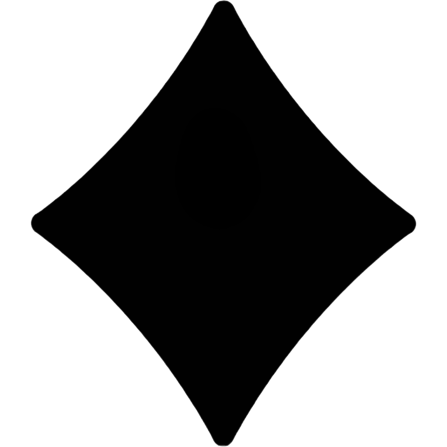
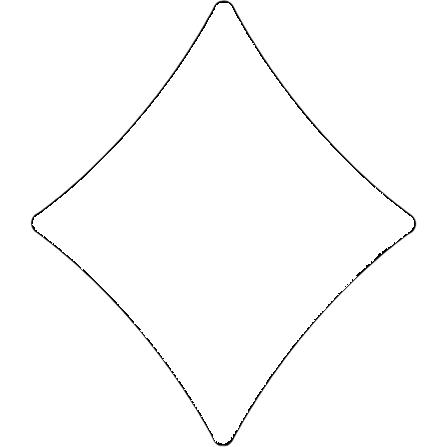
Version2 cambios

diff --git a/Windows/Simulador.Designer.cs b/Windows/Simulador.Designer.cs
@@ -41,6 +41,7 @@
             this.button_estadoActual = new System.Windows.Forms.Button();
             this.Label_Clue = new System.Windows.Forms.Label();
             this.button_volver = new System.Windows.Forms.Button();
+            this.button_deshacer = new System.Windows.Forms.Button();
             ((System.ComponentModel.ISupportInitialize)(this.pictureBox_espacioAereo)).BeginInit();
             this.SuspendLayout();
             // 
@@ -51,10 +52,10 @@
             | System.Windows.Forms.AnchorStyles.Right)));
             this.pictureBox_espacioAereo.BackColor = System.Drawing.Color.MidnightBlue;
             this.pictureBox_espacioAereo.BorderStyle = System.Windows.Forms.BorderStyle.FixedSingle;
-            this.pictureBox_espacioAereo.Location = new System.Drawing.Point(20, 60);
-            this.pictureBox_espacioAereo.Margin = new System.Windows.Forms.Padding(2);
+            this.pictureBox_espacioAereo.Location = new System.Drawing.Point(27, 74);
+            this.pictureBox_espacioAereo.Margin = new System.Windows.Forms.Padding(3, 2, 3, 2);
             this.pictureBox_espacioAereo.Name = "pictureBox_espacioAereo";
-            this.pictureBox_espacioAereo.Size = new System.Drawing.Size(650, 566);
+            this.pictureBox_espacioAereo.Size = new System.Drawing.Size(866, 696);
             this.pictureBox_espacioAereo.SizeMode = System.Windows.Forms.PictureBoxSizeMode.Zoom;
             this.pictureBox_espacioAereo.TabIndex = 0;
             this.pictureBox_espacioAereo.TabStop = false;
@@ -63,10 +64,9 @@
             // 
             this.Label_Info.AutoSize = true;
             this.Label_Info.BorderStyle = System.Windows.Forms.BorderStyle.FixedSingle;
-            this.Label_Info.Location = new System.Drawing.Point(25, 56);
-            this.Label_Info.Margin = new System.Windows.Forms.Padding(2, 0, 2, 0);
+            this.Label_Info.Location = new System.Drawing.Point(33, 69);
             this.Label_Info.Name = "Label_Info";
-            this.Label_Info.Size = new System.Drawing.Size(37, 15);
+            this.Label_Info.Size = new System.Drawing.Size(46, 18);
             this.Label_Info.TabIndex = 1;
             this.Label_Info.Text = "label1";
             this.Label_Info.TextAlign = System.Drawing.ContentAlignment.MiddleLeft;
@@ -77,18 +77,20 @@
             this.Label_Conflicto.BackColor = System.Drawing.Color.Transparent;
             this.Label_Conflicto.Font = new System.Drawing.Font("Segoe UI", 9.75F, System.Drawing.FontStyle.Bold, System.Drawing.GraphicsUnit.Point, ((byte)(0)));
             this.Label_Conflicto.ForeColor = System.Drawing.Color.Purple;
-            this.Label_Conflicto.Location = new System.Drawing.Point(22, 21);
+            this.Label_Conflicto.Location = new System.Drawing.Point(29, 26);
+            this.Label_Conflicto.Margin = new System.Windows.Forms.Padding(4, 0, 4, 0);
             this.Label_Conflicto.Name = "Label_Conflicto";
-            this.Label_Conflicto.Size = new System.Drawing.Size(282, 17);
+            this.Label_Conflicto.Size = new System.Drawing.Size(367, 23);
             this.Label_Conflicto.TabIndex = 3;
             this.Label_Conflicto.Text = "Pulsa \"Mover\" o \"Automático\" para empezar";
             // 
             // button_mover
             // 
             this.button_mover.Anchor = ((System.Windows.Forms.AnchorStyles)((System.Windows.Forms.AnchorStyles.Top | System.Windows.Forms.AnchorStyles.Right)));
-            this.button_mover.Location = new System.Drawing.Point(690, 60);
+            this.button_mover.Location = new System.Drawing.Point(920, 74);
+            this.button_mover.Margin = new System.Windows.Forms.Padding(4, 4, 4, 4);
             this.button_mover.Name = "button_mover";
-            this.button_mover.Size = new System.Drawing.Size(200, 40);
+            this.button_mover.Size = new System.Drawing.Size(267, 49);
             this.button_mover.TabIndex = 4;
             this.button_mover.Text = "Mover";
             this.button_mover.UseVisualStyleBackColor = true;
@@ -97,10 +99,10 @@
             // button_auto
             // 
             this.button_auto.Anchor = ((System.Windows.Forms.AnchorStyles)((System.Windows.Forms.AnchorStyles.Top | System.Windows.Forms.AnchorStyles.Right)));
-            this.button_auto.Location = new System.Drawing.Point(690, 110);
-            this.button_auto.Margin = new System.Windows.Forms.Padding(2);
+            this.button_auto.Location = new System.Drawing.Point(920, 135);
+            this.button_auto.Margin = new System.Windows.Forms.Padding(3, 2, 3, 2);
             this.button_auto.Name = "button_auto";
-            this.button_auto.Size = new System.Drawing.Size(200, 40);
+            this.button_auto.Size = new System.Drawing.Size(267, 49);
             this.button_auto.TabIndex = 5;
             this.button_auto.Text = "Automatico";
             this.button_auto.UseVisualStyleBackColor = true;
@@ -113,9 +115,10 @@
             // button_conflicto
             // 
             this.button_conflicto.Anchor = ((System.Windows.Forms.AnchorStyles)((System.Windows.Forms.AnchorStyles.Top | System.Windows.Forms.AnchorStyles.Right)));
-            this.button_conflicto.Location = new System.Drawing.Point(690, 230);
+            this.button_conflicto.Location = new System.Drawing.Point(920, 348);
+            this.button_conflicto.Margin = new System.Windows.Forms.Padding(4, 4, 4, 4);
             this.button_conflicto.Name = "button_conflicto";
-            this.button_conflicto.Size = new System.Drawing.Size(200, 40);
+            this.button_conflicto.Size = new System.Drawing.Size(267, 49);
             this.button_conflicto.TabIndex = 6;
             this.button_conflicto.Text = "¿Habrá conflicto?";
             this.button_conflicto.UseVisualStyleBackColor = true;
@@ -124,10 +127,10 @@
             // button_datos
             // 
             this.button_datos.Anchor = ((System.Windows.Forms.AnchorStyles)((System.Windows.Forms.AnchorStyles.Top | System.Windows.Forms.AnchorStyles.Right)));
-            this.button_datos.Location = new System.Drawing.Point(690, 280);
-            this.button_datos.Margin = new System.Windows.Forms.Padding(2);
+            this.button_datos.Location = new System.Drawing.Point(920, 410);
+            this.button_datos.Margin = new System.Windows.Forms.Padding(3, 2, 3, 2);
             this.button_datos.Name = "button_datos";
-            this.button_datos.Size = new System.Drawing.Size(200, 40);
+            this.button_datos.Size = new System.Drawing.Size(267, 49);
             this.button_datos.TabIndex = 7;
             this.button_datos.Text = "Datos de los vuelos";
             this.button_datos.UseVisualStyleBackColor = true;
@@ -137,10 +140,10 @@
             // 
             this.button_reset.Anchor = ((System.Windows.Forms.AnchorStyles)((System.Windows.Forms.AnchorStyles.Top | System.Windows.Forms.AnchorStyles.Right)));
             this.button_reset.BackColor = System.Drawing.Color.RosyBrown;
-            this.button_reset.Location = new System.Drawing.Point(690, 160);
-            this.button_reset.Margin = new System.Windows.Forms.Padding(2);
+            this.button_reset.Location = new System.Drawing.Point(920, 262);
+            this.button_reset.Margin = new System.Windows.Forms.Padding(3, 2, 3, 2);
             this.button_reset.Name = "button_reset";
-            this.button_reset.Size = new System.Drawing.Size(200, 40);
+            this.button_reset.Size = new System.Drawing.Size(267, 49);
             this.button_reset.TabIndex = 8;
             this.button_reset.Text = "Reset";
             this.button_reset.UseVisualStyleBackColor = false;
@@ -149,10 +152,10 @@
             // button_estadoActual
             // 
             this.button_estadoActual.Anchor = ((System.Windows.Forms.AnchorStyles)((System.Windows.Forms.AnchorStyles.Top | System.Windows.Forms.AnchorStyles.Right)));
-            this.button_estadoActual.Location = new System.Drawing.Point(690, 330);
-            this.button_estadoActual.Margin = new System.Windows.Forms.Padding(2);
+            this.button_estadoActual.Location = new System.Drawing.Point(920, 471);
+            this.button_estadoActual.Margin = new System.Windows.Forms.Padding(3, 2, 3, 2);
             this.button_estadoActual.Name = "button_estadoActual";
-            this.button_estadoActual.Size = new System.Drawing.Size(200, 40);
+            this.button_estadoActual.Size = new System.Drawing.Size(267, 49);
             this.button_estadoActual.TabIndex = 9;
             this.button_estadoActual.Text = "Guardar estado actual";
             this.button_estadoActual.UseVisualStyleBackColor = true;
@@ -165,9 +168,10 @@
             this.Label_Clue.BackColor = System.Drawing.Color.Transparent;
             this.Label_Clue.Font = new System.Drawing.Font("Segoe UI", 9F, System.Drawing.FontStyle.Regular, System.Drawing.GraphicsUnit.Point, ((byte)(0)));
             this.Label_Clue.ForeColor = System.Drawing.Color.Indigo;
-            this.Label_Clue.Location = new System.Drawing.Point(687, 507);
+            this.Label_Clue.Location = new System.Drawing.Point(916, 624);
+            this.Label_Clue.Margin = new System.Windows.Forms.Padding(4, 0, 4, 0);
             this.Label_Clue.Name = "Label_Clue";
-            this.Label_Clue.Size = new System.Drawing.Size(206, 60);
+            this.Label_Clue.Size = new System.Drawing.Size(261, 80);
             this.Label_Clue.TabIndex = 10;
             this.Label_Clue.Text = "Para cambiar las velocidades \r\nde los aviones, clica sobre cada avión \r\npara abri" +
     "r los datos del vuelo \r\ny editar la velocidad.";
@@ -176,20 +180,34 @@
             // 
             this.button_volver.Anchor = ((System.Windows.Forms.AnchorStyles)((System.Windows.Forms.AnchorStyles.Bottom | System.Windows.Forms.AnchorStyles.Right)));
             this.button_volver.BackColor = System.Drawing.Color.IndianRed;
-            this.button_volver.Location = new System.Drawing.Point(725, 583);
+            this.button_volver.Location = new System.Drawing.Point(967, 718);
+            this.button_volver.Margin = new System.Windows.Forms.Padding(4, 4, 4, 4);
             this.button_volver.Name = "button_volver";
-            this.button_volver.Size = new System.Drawing.Size(112, 43);
+            this.button_volver.Size = new System.Drawing.Size(149, 53);
             this.button_volver.TabIndex = 11;
             this.button_volver.Text = "Volver al incio";
             this.button_volver.UseVisualStyleBackColor = false;
             this.button_volver.Click += new System.EventHandler(this.button_volver_Click);
             // 
+            // button_deshacer
+            // 
+            this.button_deshacer.Anchor = ((System.Windows.Forms.AnchorStyles)((System.Windows.Forms.AnchorStyles.Top | System.Windows.Forms.AnchorStyles.Right)));
+            this.button_deshacer.Location = new System.Drawing.Point(920, 198);
+            this.button_deshacer.Margin = new System.Windows.Forms.Padding(3, 2, 3, 2);
+            this.button_deshacer.Name = "button_deshacer";
+            this.button_deshacer.Size = new System.Drawing.Size(267, 49);
+            this.button_deshacer.TabIndex = 12;
+            this.button_deshacer.Text = "Deshacer";
+            this.button_deshacer.UseVisualStyleBackColor = true;
+            this.button_deshacer.Click += new System.EventHandler(this.button_deshacer_Click);
+            // 
             // Simulador
             // 
-            this.AutoScaleDimensions = new System.Drawing.SizeF(6F, 13F);
+            this.AutoScaleDimensions = new System.Drawing.SizeF(8F, 16F);
             this.AutoScaleMode = System.Windows.Forms.AutoScaleMode.Font;
             this.BackColor = System.Drawing.Color.LightSteelBlue;
-            this.ClientSize = new System.Drawing.Size(914, 671);
+            this.ClientSize = new System.Drawing.Size(1219, 826);
+            this.Controls.Add(this.button_deshacer);
             this.Controls.Add(this.button_volver);
             this.Controls.Add(this.Label_Clue);
             this.Controls.Add(this.button_estadoActual);
@@ -202,7 +220,7 @@
             this.Controls.Add(this.Label_Info);
             this.Controls.Add(this.pictureBox_espacioAereo);
             this.FormBorderStyle = System.Windows.Forms.FormBorderStyle.FixedSingle;
-            this.Margin = new System.Windows.Forms.Padding(2);
+            this.Margin = new System.Windows.Forms.Padding(3, 2, 3, 2);
             this.Name = "Simulador";
             this.StartPosition = System.Windows.Forms.FormStartPosition.CenterScreen;
             this.Paint += new System.Windows.Forms.PaintEventHandler(this.Simulador_Paint);
@@ -227,5 +245,6 @@
         private System.Windows.Forms.Button button_estadoActual;
         private System.Windows.Forms.Label Label_Clue;
         private System.Windows.Forms.Button button_volver;
+        private System.Windows.Forms.Button button_deshacer;
     }
 }

diff --git a/Windows/Simulador.cs b/Windows/Simulador.cs
@@ -22,6 +22,7 @@ namespace Windows
 
         // Llista de PictureBox per representar tants avions com tinguem
         private List<PictureBox> llistaPictures = new List<PictureBox>();
+        private Stack<FlightPlanList> stackVuelos = new Stack<FlightPlanList>();
         private const int TAM_AVION = 25;
 
         private double escala = 1; //pixeles por cada unidad de las coordenadas
@@ -29,13 +30,14 @@ namespace Windows
         private double maxY = 1;
 
         //CONSTRUCTOR
-        public Simulador(FlightPlanList vuelos, double distancia, double ciclo)
+        public Simulador(FlightPlanList vuelos, Stack<FlightPlanList> stack, double distancia, double ciclo)
         {
             InitializeComponent();
 
             this.llistaVuelos = vuelos;
             this.distanciaSeguridad = distancia;
             this.tiempoCiclo = ciclo;
+            this.stackVuelos = stack;
 
 
             this.llistaVuelos.RestartAll();
@@ -541,6 +543,88 @@ namespace Windows
         private void button_volver_Click(object sender, EventArgs e)
         {
             Close();
+        }
+
+        private void button_deshacer_Click(object sender, EventArgs e)
+        {
+            stackVuelos.Pop();
+
+            for (int i = 0; i < llistaVuelos.GetCount(); i++)
+            {
+                //movemos los dibujos a sus nuevas posiciones
+                ColocarAvion(llistaPictures[i], llistaVuelos.GetFlightPlan(i));
+            }
+
+            bool hayConflictoGeneral = false;
+
+            string vuelosEnConflicto = "";
+            //se guarda la distancia mínima global entre todos los vuelos
+            double minDistanciaGlobal = double.MaxValue;
+
+            for (int i = 0; i < llistaVuelos.GetCount(); i++)
+            {
+                for (int j = i + 1; j < llistaVuelos.GetCount(); j++)
+                {
+                    FlightPlan p1 = llistaVuelos.GetFlightPlan(i);
+                    FlightPlan p2 = llistaVuelos.GetFlightPlan(j);
+
+                    double dist = p1.Distance(p2);
+                    if (dist < minDistanciaGlobal)
+                        minDistanciaGlobal = dist;
+
+                    if (p1.ConflictoDuranteCiclo(p2, distanciaSeguridad, tiempoCiclo))
+                    {
+                        hayConflictoGeneral = true;
+                        vuelosEnConflicto = vuelosEnConflicto + p1.GetId() + " y " + p2.GetId() + "\n";
+                        //si decidimos darle que no a solucionar conflicto y simulamos,
+                        //en el momento del cruce entre los vuelos que entrarán en conflicto saltará la alarma
+                    }
+                }
+            }
+
+            if (hayConflictoGeneral)
+            {
+                Label_Conflicto.Text = "¡CONFLICTO! Distancia mín:" + minDistanciaGlobal.ToString("F2");
+                Label_Conflicto.ForeColor = Color.Red;
+                AvisarConflicto(vuelosEnConflicto
+                    );
+            }
+
+            else
+            {
+                if (llistaVuelos.GetCount() > 1)
+                    Label_Conflicto.Text = "Sin conflicto. Distancia mín:" + minDistanciaGlobal.ToString("F2");
+                else
+                    Label_Conflicto.Text = "Simulación activa (1 solo vuelo).";
+
+                Label_Conflicto.ForeColor = Color.Green;
+                avisoMostrado = false;
+            }
+
+            //comprobamos si todos los vuelos han llegado a su destino y desactivamos los botones si es así
+            bool todosHanLlegado = true;
+            for (int i = 0; i < llistaVuelos.GetCount() && todosHanLlegado; i++)
+            {
+                //si algún avión no ha llegado, ponemos false
+                if (!llistaVuelos.GetFlightPlan(i).HasArrived())
+                {
+                    todosHanLlegado = false;
+                }
+            }
+
+            if (todosHanLlegado && llistaVuelos.GetCount() > 0)
+            {
+                button_auto.Enabled = false;
+                button_mover.Enabled = false;
+                reloj.Stop();
+                if (!mensajeLlegadaMostrado)
+                {
+                    mensajeLlegadaMostrado = true;
+                    MessageBox.Show("¡Todos los vuelos han llegado a su destino! ✈ ");
+                }
+            }
+
+            pictureBox_espacioAereo.Invalidate();
         }
     }
 }

diff --git a/Windows/Principal.cs b/Windows/Principal.cs
@@ -16,6 +16,7 @@ namespace Windows
     {
         private Estilo estilo = new Estilo();
         private FlightPlanList listaVuelos = new FlightPlanList();
+        private Stack<FlightPlanList> stackVuelos = new Stack<FlightPlanList>();
 
         private double distanciaSeguridad = 0;
         private double tiempoCiclo = 0;
@@ -80,7 +81,7 @@ namespace Windows
             if (listaVuelos.GetCount() > 0)
             {
                 // Passem la llista sencera al simulador en lloc de dos plans sueltos
-                Simulador formSim = new Simulador(listaVuelos, this.distanciaSeguridad, this.tiempoCiclo);
+                Simulador formSim = new Simulador(listaVuelos, stackVuelos, this.distanciaSeguridad, this.tiempoCiclo);
                 formSim.ShowDialog();
             }
             else
@@ -100,6 +101,10 @@ namespace Windows
         private void Principal_Resize(object sender, EventArgs e)
         {
             this.Invalidate();
+        }
+        private void SetStackVuelos(Stack<FlightPlanList> stack)
+        {
+            this.stackVuelos = stack;
         }
     }
 }

diff --git a/FlightLib/Stack.cs b/FlightLib/Stack.cs
@@ -1,0 +1,18 @@
+using System;
+using System.Collections.Generic;
+using System.Linq;
+using System.Text;
+using System.Threading.Tasks;
+
+namespace FlightLib
+{
+    public class Stack
+    {
+        private Stack<FlightPlanList> stackVuelos = new Stack<FlightPlanList>();
+      
+        public Stack<FlightPlanList> GetStack()
+        {
+            return stackVuelos;
+        }
+    }
+}
